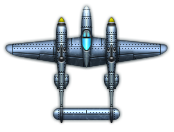
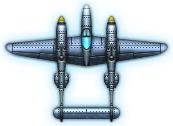
Improved visibility of units by giving them glowing effect

diff --git a/src/game/units/spaceship_6.py b/src/game/units/spaceship_6.py
@@ -6,17 +6,17 @@ from game.rocket import Rocket
 
 
 class Spaceship_6(Unit):
-    path_blue = 'resources/img/Spaceship_pack_pack_06_BLUE.png'
-    path_red = 'resources/img/Spaceship_pack_pack_06_RED.png'
+    path_blue = 'resources/img/ship_blue6.png'
+    path_red = 'resources/img/ship_red6.png'
     path_blue_dead = 'resources/img/Spaceship_pack_pack_06_BLUE-dead.png'
     path_red_dead = 'resources/img/Spaceship_pack_pack_06_RED-dead.png'
 
     # Name of the class of the bullets that this unit will attack with
     bullet_type = Rocket
-    unit_size = 45
+    unit_size = 55
 
     def __init__(self, uuid: UUID, game, start_pos,
-                 hp: int = 250, atk_damage: int = 40, atk_speed: int = 300, atk_range: int = 150, speed: float = 0.27,
+                 hp: int = 250, atk_damage: int = 40, atk_speed: int = 300, atk_range: int = 140, speed: float = 0.27,
                  team: Team = Team.RED, left: bool = True, client_team: Team = Team.RED):
         Unit.__init__(self, uuid, game, start_pos, hp, atk_damage, atk_speed, atk_range, speed, team, client_team, left,
                       self.path_blue, self.path_red, self.path_blue_dead, self.path_red_dead,

diff --git a/src/core/client.py b/src/core/client.py
@@ -134,12 +134,12 @@ class Client(Thread, MessageReceiver):
             if building.get_team() == msg.team and\
                     building.get_big() is msg.big and\
                     building.get_left() is msg.left:
-                print(f"{building.get_x()} {building.get_y()} hm")
+                # print(f"{building.get_x()} {building.get_y()} hm")
                 building.lose_hp(msg.damage, server_told=True)
             elif building.get_team() == (not msg.team) and\
                     building.get_big() is msg.big and\
                     building.get_left() is not msg.left:
-                print(f"{building.get_x()} {building.get_y()}")
+                # print(f"{building.get_x()} {building.get_y()}")
                 building.lose_hp(msg.damage, server_told=True)
 
     def update_units(self, msg: UnitsUpdateMessage):

diff --git a/src/game/units/spaceship_1.py b/src/game/units/spaceship_1.py
@@ -6,14 +6,14 @@ from game.rocket import Rocket
 
 
 class Spaceship_1(Unit):
-    path_blue = 'resources/img/Spaceship_pack_pack_01_BLUE.png'
-    path_red = 'resources/img/Spaceship_pack_pack_01_RED.png'
+    path_blue = 'resources/img/ship_blue1.png'
+    path_red = 'resources/img/ship_red1.png'
     path_blue_dead = 'resources/img/Spaceship_pack_pack_01_BLUE-dead.png'
     path_red_dead = 'resources/img/Spaceship_pack_pack_01_RED-dead.png'
 
     # Name of the class of the bullets that this unit will attack with
     bullet_type = Rocket
-    unit_size = 45
+    unit_size = 55
 
     def __init__(self, uuid: UUID, game, start_pos,
                  hp: int = 300, atk_damage: int = 30, atk_speed: int = 200, atk_range: int = 100, speed: float = 0.25,

diff --git a/src/game/units/spaceship_4.py b/src/game/units/spaceship_4.py
@@ -6,14 +6,14 @@ from game.rocket import Rocket
 
 
 class Spaceship_4(Unit):
-    path_blue = 'resources/img/Spaceship_pack_pack_04_BLUE.png'
-    path_red = 'resources/img/Spaceship_pack_pack_04_RED.png'
+    path_blue = 'resources/img/ship_blue4.png'
+    path_red = 'resources/img/ship_red4.png'
     path_blue_dead = 'resources/img/Spaceship_pack_pack_04_BLUE-dead.png'
     path_red_dead = 'resources/img/Spaceship_pack_pack_04_RED-dead.png'
 
     # Name of the class of the bullets that this unit will attack with
     bullet_type = Rocket
-    unit_size = 45
+    unit_size = 55
 
     def __init__(self, uuid: UUID, game, start_pos,
                  hp: int = 350, atk_damage: int = 40, atk_speed: int = 100, atk_range: int = 120, speed: float = 0.20,

diff --git a/src/game/units/spaceship_5.py b/src/game/units/spaceship_5.py
@@ -6,14 +6,14 @@ from game.rocket import Rocket
 
 
 class Spaceship_5(Unit):
-    path_blue = 'resources/img/Spaceship_pack_pack_05_BLUE.png'
-    path_red = 'resources/img/Spaceship_pack_pack_05_RED.png'
+    path_blue = 'resources/img/ship_blue5.png'
+    path_red = 'resources/img/ship_red5.png'
     path_blue_dead = 'resources/img/Spaceship_pack_pack_05_BLUE-dead.png'
     path_red_dead = 'resources/img/Spaceship_pack_pack_05_RED-dead.png'
 
     # Name of the class of the bullets that this unit will attack with
     bullet_type = Rocket
-    unit_size = 45
+    unit_size = 55
 
     def __init__(self, uuid: UUID, game, start_pos,
                  hp: int = 400, atk_damage: int = 40, atk_speed: int = 150, atk_range: int = 110, speed: float = 0.30,

diff --git a/src/game/units/spaceship_2.py b/src/game/units/spaceship_2.py
@@ -6,14 +6,14 @@ from game.rocket import Rocket
 
 
 class Spaceship_2(Unit):
-    path_blue = 'resources/img/Spaceship_pack_pack_02_BLUE.png'
-    path_red = 'resources/img/Spaceship_pack_pack_02_RED.png'
+    path_blue = 'resources/img/ship_blue2.png'
+    path_red = 'resources/img/ship_red2.png'
     path_blue_dead = 'resources/img/Spaceship_pack_pack_02_BLUE-dead.png'
     path_red_dead = 'resources/img/Spaceship_pack_pack_02_RED-dead.png'
 
     # Name of the class of the bullets that this unit will attack with
     bullet_type = Rocket
-    unit_size = 45
+    unit_size = 55
 
     def __init__(self, uuid: UUID, game, start_pos,
                  hp: int = 400, atk_damage: int = 45, atk_speed: int = 95, atk_range: int = 110, speed: float = 0.18,

diff --git a/src/game/units/spaceship_3.py b/src/game/units/spaceship_3.py
@@ -6,14 +6,14 @@ from game.rocket import Rocket
 
 
 class Spaceship_3(Unit):
-    path_blue = 'resources/img/Spaceship_pack_pack_03_BLUE.png'
-    path_red = 'resources/img/Spaceship_pack_pack_03_RED.png'
+    path_blue = 'resources/img/ship_blue3.png'
+    path_red = 'resources/img/ship_red3.png'
     path_blue_dead = 'resources/img/Spaceship_pack_pack_03_BLUE-dead.png'
     path_red_dead = 'resources/img/Spaceship_pack_pack_03_RED-dead.png'
 
     # Name of the class of the bullets that this unit will attack with
     bullet_type = Rocket
-    unit_size = 45
+    unit_size = 55
 
     def __init__(self, uuid: UUID, game, start_pos,
                  hp: int = 150, atk_damage: int = 22, atk_speed: int = 300, atk_range: int = 95, speed: float = 0.30,

diff --git a/src/game/building.py b/src/game/building.py
@@ -146,7 +146,11 @@ class Building:
 
     def attack(self, bullets: dict[UUID, Bullet]):
         self.__cooldown = 0
-        bullet_pos = pygame.Vector2(self.__x, self.__y) + 56 * self.__vector
+        if self.__big:
+            distance_of_bullet = 55
+        else:
+            distance_of_bullet = 46
+        bullet_pos = pygame.Vector2(self.__x, self.__y) + distance_of_bullet * self.__vector
         laser = Laser(self.__game, bullet_pos, self.__target, self.__atk_damage, team=self.__team)
         bullets[laser.uuid] = laser
 

diff --git a/src/game/units/unit.py b/src/game/units/unit.py
@@ -111,7 +111,8 @@ class Unit:
 
             self.__target = current_closest_target
             self.__target_in_atk_range = current_target_in_atk_range
-            self.calc_vector(current_closest_target)
+            if current_closest_target is not None:
+                self.calc_vector(current_closest_target)
 
     def attack(self, bullets: dict[UUID, Bullet]):
         self.__cooldown = 0

diff --git a/src/game/units/spaceship.py b/src/game/units/spaceship.py
@@ -13,7 +13,7 @@ class Spaceship(Unit):
 
     # Name of the class of the bullets that this unit will attack with
     bullet_type = Rocket
-    unit_size = 45
+    unit_size = 50
 
     def __init__(self, uuid: UUID, game, start_pos,
                  hp: int = 255, atk_damage: int = 50, atk_speed: int = 110, atk_range: int = 100, speed: float = 0.22,
